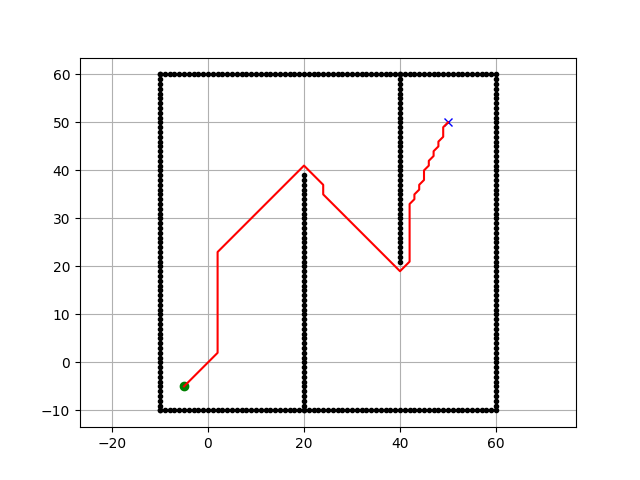
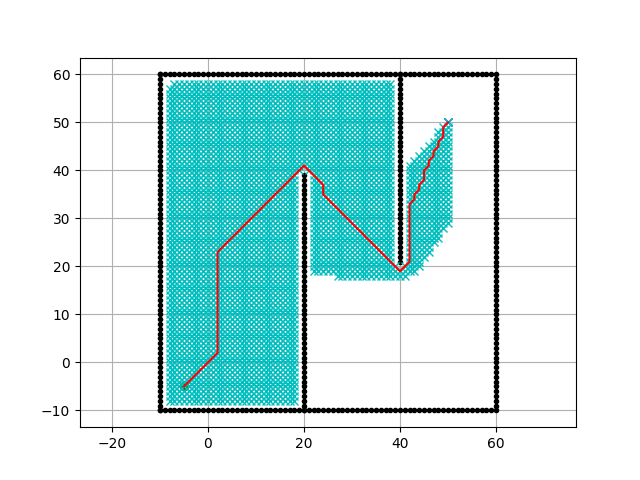
Updates images

Changed region(s): [[0.25, 0.1562, 0.7188, 0.8438]]

diff --git a/Q7/main.py b/Q7/main.py
@@ -70,7 +70,7 @@ def runRRtStar(obsList, start, goal, robot_radius, show_animation):
         cost = analyzeCost(path[0], path[1])
         totalCost += cost
         totalTime += finishTime - startTime
-        planner.graph(path)
+        planner.graph(path, show_animation)
     print(
         f"| RRT Star | {round(totalTime/iterations, 2)} | {round(totalCost/iterations,2)} |"
     )
@@ -80,16 +80,16 @@ def runPlanners(
     ox, oy, sx, sy, gx, gy, robot_radius, show_animation, resolution, obsList
 ):
     for algorithm in [
-        # CustomDijkstraPlanner,
-        # CustomAStarPlanner,
-        # CustomBFSPlanner,
-        # CustomBiDirectional,
-        VanillaAStar
+        CustomDijkstraPlanner,
+        CustomAStarPlanner,
+        CustomBFSPlanner,
+        CustomBiDirectional,
+        VanillaAStar,
     ]:
         # Reset the plot
         totalCost = 0
         totalTime = 0
-        iterations = 10
+        iterations = 1
         for i in range(iterations):
             plt.clf()
             plotBoard(ox, oy, sx, sy, gx, gy)
@@ -99,14 +99,14 @@ def runPlanners(
             )  # Initialize the planner
             rx, ry = planner.plan(sx, sy, gx, gy, show_animation)
             finishTime = time.time()
-            # planner.graph(rx, ry)
+            planner.graph(rx, ry, show_animation)
             cost = analyzeCost(rx, ry)
             totalCost += cost
             totalTime += finishTime - startTime
         print(
             f"| {algorithm.__name__} | {round(totalTime/iterations, 2)} | {round(totalCost/iterations, 2)} |"
         )
-    # runRRtStar(obsList, [sx, sy], [gx, gy], robot_radius, show_animation)
+    runRRtStar(obsList, [sx, sy], [gx, gy], robot_radius, show_animation)
 
 
 def analyzeCost(rx, ry):

diff --git a/Q7/RRTStar.py b/Q7/RRTStar.py
@@ -512,10 +512,11 @@ class CustomRRTStar(RRTStar):
     def plan(self, show_animation, logs=False):
         return super().planning(show_animation, logs)
 
-    def graph(self, path):
+    def graph(self, path, save):
         super().draw_graph()
         plt.plot([x for (x, y) in path], [y for (x, y) in path], "-r")
         plt.grid(True)
         plt.pause(0.01)
         plt.show()
-        # plt.savefig("rrtstar.png")
+        if save:
+            plt.savefig("rrtstar.png")

diff --git a/Q7/BiDirectional.py b/Q7/BiDirectional.py
@@ -328,8 +328,9 @@ class CustomBiDirectional(BidirectionalAStarPlanner):
     def plan(self, sx, sy, gx, gy, show_animation):
         return super().planning(sx, sy, gx, gy, show_animation)
 
-    def graph(self, rx, ry):
+    def graph(self, rx, ry, save):
         plt.plot(rx, ry, "-r")
         plt.grid(True)
         plt.show()
-        # plt.savefig("BiDirectional.png")
+        if save:
+            plt.savefig("BiDirectional.png")

diff --git a/Q7/BFSPlanner.py b/Q7/BFSPlanner.py
@@ -232,8 +232,9 @@ class CustomBFSPlanner(BreadthFirstSearchPlanner):
     def plan(self, sx, sy, gx, gy, show_animation):
         return super().planning(sx, sy, gx, gy, show_animation)
 
-    def graph(self, rx, ry):
+    def graph(self, rx, ry, save):
         plt.plot(rx, ry, "-r")
         plt.grid(True)
         plt.show()
-        # plt.savefig("BFS.png")
+        if save:
+            plt.savefig("BFS.png")

diff --git a/Q7/Dijkstra.py b/Q7/Dijkstra.py
@@ -232,8 +232,9 @@ class CustomDijkstraPlanner(Dijkstra):
     def plan(self, sx, sy, gx, gy, show_animation):
         return super().planning(sx, sy, gx, gy, show_animation)
 
-    def graph(self, rx, ry):
+    def graph(self, rx, ry, save):
         plt.plot(rx, ry, "-r")
         plt.grid(True)
         plt.show()
-        # plt.savefig("Dijkstra.png")
+        if save:
+            plt.savefig("Dijkstra.png")

diff --git a/Q7/AStar.py b/Q7/AStar.py
@@ -260,8 +260,9 @@ class CustomAStarPlanner(AStarPlanner):
     def plan(self, sx, sy, gx, gy, show_animation):
         return super().planning(sx, sy, gx, gy, show_animation)
 
-    def graph(self, rx, ry):
+    def graph(self, rx, ry, save):
         plt.plot(rx, ry, "-r")
         plt.grid(True)
         plt.show()
-        # plt.savefig("AStar.png")
+        if save:
+            plt.savefig("AStar.png")

diff --git a/Q7/AStar_Vanilla.py b/Q7/AStar_Vanilla.py
@@ -209,8 +209,9 @@ class VanillaAStar:
 
         return motion
 
-    def graph(self, rx, ry):
+    def graph(self, rx, ry, save=False):
         plt.plot(rx, ry, "-r")
         plt.grid(True)
         plt.show()
-        # plt.savefig("AStarVanilla.png")
+        if save:
+            plt.savefig("AStarVanilla.png")

diff --git a/Q7/Q7.md b/Q7/Q7.md
@@ -56,6 +56,10 @@ Graphs:
 
 ![A Star](./images/AStar.png)
 
+#### Vanilla A Star
+
+![Vanilla A Star](./images/Vanilla_A_Star.png)
+
 #### BFS
 
 ![BFS](./images/BFS.png)
